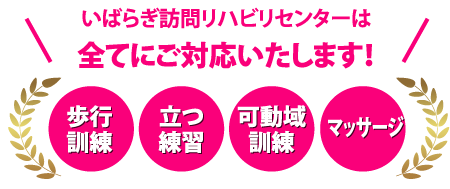
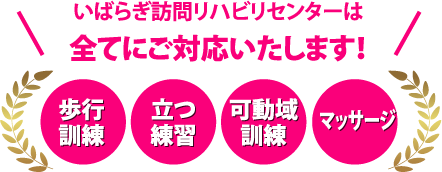
追加修正①

diff --git a/css/responsive_all.css b/css/responsive_all.css
@@ -595,6 +595,7 @@
     }
     #gold_2{
         display: block;
+        padding: 10px 100px;
     }
     .feature_contents_left{
         width: 20%;
@@ -683,6 +684,12 @@
     }
     .reason_title_960 img{
         width: auto;
+    }
+}
+@media screen and (max-width:540px) {
+    #gold_2{
+        display: block;
+        padding: 10px;
     }
 }
 @media screen and (max-width:500px) {

diff --git a/css/style_220411.css b/css/style_220411.css
@@ -527,7 +527,6 @@ header{
     display: none;
     max-width: 630px;
     margin: auto;
-    padding: 0 5px;
 }
 #gold_2 img{
     width: 100%;
